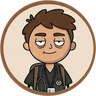
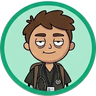
Online colours no longer come from characters; Omar and Pip get their original rings back
Each online player gets one of the 8 colours, never shared in a room.

Claude-Session: https://claude.ai/code/session_01M1zZESrXzYjoRQjWUzRNCF

diff --git a/src/games/diagnostic/OnlinePlay.tsx b/src/games/diagnostic/OnlinePlay.tsx
@@ -6,7 +6,7 @@ import { call, leaveRoom } from '@/online/api';
 import { finishOnline, useShowResults } from '@/online/finish';
 import { AlertPill, Countdown, nth, useAlerts } from '@/online/live';
 import { RoomTalk } from '@/online/Talk';
-import { characterOf } from '../shell/characters';
+import { playerColour } from '../shell/characters';
 import { PauseMenu } from '../shell/PauseMenu';
 import { presetTeam } from '../shell/teams';
 import type { OnlineProps } from '../shell/types';
@@ -74,7 +74,7 @@ export function OnlinePlay({ def, roomId, matchId, me }: OnlineProps) {
     for (const p of st.players) {
       if (p.solved && !seen.current.solved.has(p.user_id)) {
         seen.current.solved.add(p.user_id);
-        if (p.user_id !== me) push(`${p.name} solved it, ${nth(p.case_rank ?? 1)}`, characterOf(p.character)?.ring ?? '#6fd6ff');
+        if (p.user_id !== me) push(`${p.name} solved it, ${nth(p.case_rank ?? 1)}`, playerColour(st.players, p.user_id));
       }
     }
     const left = st.players.filter((p) => !p.dropped && !p.solved);
@@ -93,9 +93,8 @@ export function OnlinePlay({ def, roomId, matchId, me }: OnlineProps) {
       const seatOf = new Map(order.map((p, i) => [p.user_id, i]));
       const teams = Number(st.settings.teams) || 0;
       const seats = order.map((p, i) => {
-        const ch = characterOf(p.character);
         const tm = teams >= 2 && p.team != null ? presetTeam(p.team) : null;
-        return { seat: i, name: p.user_id === me ? 'You' : p.name, userId: p.user_id, character: p.character, color: tm?.color ?? ch?.ring, ...(tm ? { team: tm.id } : null) };
+        return { seat: i, name: p.user_id === me ? 'You' : p.name, userId: p.user_id, character: p.character, color: tm?.color ?? playerColour(st.players, p.user_id), ...(tm ? { team: tm.id } : null) };
       });
       const standings = st.players
         .map((p) => ({ seat: seatOf.get(p.user_id)!, name: p.user_id === me ? 'You' : p.name, score: p.score, timeMs: p.solve_ms, rank: p.rank ?? st.players.length }))

diff --git a/src/games/shell/characters.ts b/src/games/shell/characters.ts
@@ -1,16 +1,16 @@
-/** The 9 player characters (AV1). A player's colour is their character's ring colour (AV3). */
+/** The 9 Original pack characters. Several players may share one; colours are given out separately (Yazan 2026-10-18). */
 export type Character = { slug: string; name: string; ring: string };
 
 export const CHARACTERS: Character[] = [
   { slug: 'yazan', name: 'Yazan', ring: '#d21f45' },
   { slug: 'yara', name: 'Yara', ring: '#f3c110' },
-  { slug: 'omar', name: 'Omar', ring: '#8b5c3a' },
+  { slug: 'omar', name: 'Omar', ring: '#14a576' },
   { slug: 'layla', name: 'Layla', ring: '#f58a2c' },
   { slug: 'atlas', name: 'Atlas', ring: '#8a5ae0' },
   { slug: 'nova', name: 'Nova', ring: '#3aa9e4' },
   { slug: 'bolt', name: 'Bolt', ring: '#e23f88' },
   { slug: 'iris', name: 'Iris', ring: '#7cc72a' },
-  { slug: 'pip', name: 'Pip', ring: '#12969a' },
+  { slug: 'pip', name: 'Pip', ring: '#4f47cc' },
 ];
 
 /** The 8 Nova Mechs (Yazan 2026-10-18): profile pictures won from daily chests; the ring is the rim on each face. */
@@ -44,3 +44,9 @@ export const SEAT_COLOURS: { name: string; color: string }[] = [
 
 /** The first colour nobody in `taken` has picked. */
 export const freeColour = (taken: (string | undefined)[]) => (SEAT_COLOURS.find((c) => !taken.includes(c.color)) ?? SEAT_COLOURS[0]).color;
+
+/** An online player's colour: one of the 8, never shared in a room, the same on every phone (by account id order). */
+export function playerColour(players: { user_id: string }[], userId: string) {
+  const i = players.map((p) => p.user_id).sort().indexOf(userId);
+  return SEAT_COLOURS[Math.max(0, i) % SEAT_COLOURS.length].color;
+}

diff --git a/src/online/race.ts b/src/online/race.ts
@@ -3,7 +3,7 @@ import { useCallback, useEffect, useMemo, useRef } from 'react';
 
 import { second } from '@/games/engine/timeStore';
 import type { PlayItem } from '@/games/engine/types';
-import { characterOf } from '@/games/shell/characters';
+import { playerColour } from '@/games/shell/characters';
 import { presetTeam } from '@/games/shell/teams';
 import type { GameDef } from '@/games/shell/types';
 
@@ -125,7 +125,7 @@ export function useRace(def: GameDef, roomId: string, matchId: string, me: strin
       const teams = Number(st.settings.teams) || 0;
       const seats = order.map((p, i) => {
         const tm = teams >= 2 && p.team != null ? presetTeam(p.team) : null;
-        return { seat: i, name: p.user_id === me ? 'You' : p.name, userId: p.user_id, character: p.character, color: tm?.color ?? characterOf(p.character)?.ring, ...(tm ? { team: tm.id } : null) };
+        return { seat: i, name: p.user_id === me ? 'You' : p.name, userId: p.user_id, character: p.character, color: tm?.color ?? playerColour(st.players, p.user_id), ...(tm ? { team: tm.id } : null) };
       });
       const standings = st.players
         .map((p) => ({ seat: seatOf.get(p.user_id)!, name: p.user_id === me ? 'You' : p.name, score: p.score, timeMs: p.solve_ms, rank: p.rank ?? st.players.length }))

diff --git a/src/games/silent/OnlinePlay.tsx b/src/games/silent/OnlinePlay.tsx
@@ -13,7 +13,7 @@ import { RoomTalk } from '@/online/Talk';
 import { u } from '@/theme/scale';
 import { useRaceRevealSound } from '@/online/raceSound';
 
-import { characterOf } from '../shell/characters';
+import { playerColour } from '../shell/characters';
 import { Face } from '../shell/Face';
 import { KeyboardLift } from '../shell/KeyboardLift';
 import { PauseMenu } from '../shell/PauseMenu';
@@ -66,7 +66,7 @@ export function OnlinePlay({ def, roomId, matchId, me }: OnlineProps) {
   const seen = useRef<{ turn: number; solved: Set<string>; stage: number }>({ turn: -1, solved: new Set(), stage: 0 });
 
   const teams = Number(st?.settings.teams) || 0;
-  const colorOf = (p: RacePlayer | undefined) => (!p ? R.soft : teams >= 2 && p.team != null ? presetTeam(p.team).color : (characterOf(p.character)?.ring ?? R.soft));
+  const colorOf = (p: RacePlayer | undefined) => (!p ? R.soft : teams >= 2 && p.team != null ? presetTeam(p.team).color : playerColour(st?.players ?? [], p.user_id));
 
   // Live strokes from the drawer (the stroke being drawn, and the board after each line).
   useEffect(() => {

diff --git a/src/games/crossword/OnlinePlay.tsx b/src/games/crossword/OnlinePlay.tsx
@@ -13,7 +13,7 @@ import { useTheme } from '@/state/app';
 import { u, useScreen } from '@/theme/scale';
 import { F } from '@/theme/tokens';
 
-import { characterOf } from '../shell/characters';
+import { playerColour } from '../shell/characters';
 import { PauseMenu } from '../shell/PauseMenu';
 import { presetTeam } from '../shell/teams';
 import type { OnlineProps } from '../shell/types';
@@ -76,7 +76,7 @@ export function OnlinePlay({ def, roomId, matchId, me }: OnlineProps) {
   const seen = useRef<{ claims: Set<string>; leader: string | null; out: Set<string> } | null>(null);
 
   const teams = Number(st?.settings.teams) || 0;
-  const colorOf = (p: RacePlayer | undefined) => (!p ? t.accent : teams >= 2 && p.team != null ? presetTeam(p.team).color : (characterOf(p.character)?.ring ?? t.accent));
+  const colorOf = (p: RacePlayer | undefined) => (!p ? t.accent : teams >= 2 && p.team != null ? presetTeam(p.team).color : playerColour(st?.players ?? [], p.user_id));
 
   // CW7 alerts: "Sara claimed ANEMIA", "Omar takes the lead", "Lina is out of hearts".
   useEffect(() => {

diff --git a/src/games/streak/OnlinePlay.tsx b/src/games/streak/OnlinePlay.tsx
@@ -6,7 +6,7 @@ import { settingsLine } from '@/online/format';
 import { seededOrder, useRace, type RaceState } from '@/online/race';
 import { RoomTalk } from '@/online/Talk';
 import { useRaceRevealSound } from '@/online/raceSound';
-import { characterOf } from '../shell/characters';
+import { playerColour } from '../shell/characters';
 import { PauseMenu } from '../shell/PauseMenu';
 import type { OnlineProps } from '../shell/types';
 import { GameScreen } from '../shell/ui';
@@ -58,7 +58,7 @@ export function OnlinePlay({ def, roomId, matchId, me }: OnlineProps) {
       const before = streaks.current.get(p.user_id) ?? 0;
       streaks.current.set(p.user_id, p.streak);
       if (p.user_id === me || p.streak === before) continue;
-      const color = characterOf(p.character)?.ring ?? '#6fd6ff';
+      const color = playerColour(st.players, p.user_id);
       if (p.streak > before && MILESTONES.includes(p.streak)) push(`${p.name} is on a ${p.streak} streak`, color);
       else if (p.streak === 0 && before >= 3) push(`${p.name}'s ${before} streak broke`, '#f5b041');
     }

diff --git a/src/games/riddler/OnlinePlay.tsx b/src/games/riddler/OnlinePlay.tsx
@@ -7,7 +7,7 @@ import { useRace, type RaceState } from '@/online/race';
 import { RaceReveal } from '@/online/RaceReveal';
 import { RoomTalk } from '@/online/Talk';
 import { useRaceRevealSound } from '@/online/raceSound';
-import { characterOf } from '../shell/characters';
+import { playerColour } from '../shell/characters';
 import { PauseMenu } from '../shell/PauseMenu';
 import type { OnlineProps } from '../shell/types';
 import { GameScreen } from '../shell/ui';
@@ -60,7 +60,7 @@ export function OnlinePlay({ def, roomId, matchId, me }: OnlineProps) {
     for (const p of st.players) {
       if (p.solved && !seen.current.solved.has(p.user_id)) {
         seen.current.solved.add(p.user_id);
-        if (p.user_id !== me) push(`${p.name} solved it, ${nth(p.item_rank ?? 1)}`, characterOf(p.character)?.ring ?? '#6fd6ff');
+        if (p.user_id !== me) push(`${p.name} solved it, ${nth(p.item_rank ?? 1)}`, playerColour(st.players, p.user_id));
       }
     }
     const left = st.players.filter((p) => !p.dropped && !p.solved);

diff --git a/src/games/medicordle/OnlinePlay.tsx b/src/games/medicordle/OnlinePlay.tsx
@@ -7,7 +7,7 @@ import { useRace, type RaceState } from '@/online/race';
 import { RaceReveal } from '@/online/RaceReveal';
 import { RoomTalk } from '@/online/Talk';
 import { useRaceRevealSound } from '@/online/raceSound';
-import { characterOf } from '../shell/characters';
+import { playerColour } from '../shell/characters';
 import { PauseMenu } from '../shell/PauseMenu';
 import type { OnlineProps } from '../shell/types';
 import { GameScreen } from '../shell/ui';
@@ -62,7 +62,7 @@ export function OnlinePlay({ def, roomId, matchId, me }: OnlineProps) {
     const need = closeAt(wordOf(st.item).word.length);
     for (const p of st.players) {
       if (p.user_id === me) continue;
-      const color = characterOf(p.character)?.ring ?? '#6fd6ff';
+      const color = playerColour(st.players, p.user_id);
       if (p.solved && !seen.current.solved.has(p.user_id)) {
         seen.current.solved.add(p.user_id);
         seen.current.close.add(p.user_id);

diff --git a/src/games/casefiles/OnlinePlay.tsx b/src/games/casefiles/OnlinePlay.tsx
@@ -11,7 +11,7 @@ import { RoomTalk } from '@/online/Talk';
 import { u } from '@/theme/scale';
 import { useRaceRevealSound } from '@/online/raceSound';
 
-import { characterOf } from '../shell/characters';
+import { playerColour } from '../shell/characters';
 import { presetTeam } from '../shell/teams';
 import type { OnlineProps } from '../shell/types';
 import { CaseBoard } from './CaseBoard';
@@ -100,7 +100,7 @@ export function OnlinePlay({ def, roomId, matchId, me }: OnlineProps) {
   }, []);
 
   const teams = Number(st?.settings.teams) || 0;
-  const colorOf = (p: RacePlayer | undefined) => (!p ? NR.red : teams >= 2 && p.team != null ? presetTeam(p.team).color : (characterOf(p.character)?.ring ?? NR.red));
+  const colorOf = (p: RacePlayer | undefined) => (!p ? NR.red : teams >= 2 && p.team != null ? presetTeam(p.team).color : playerColour(st?.players ?? [], p.user_id));
 
   // The case opens for everyone at once.
   useEffect(() => {
